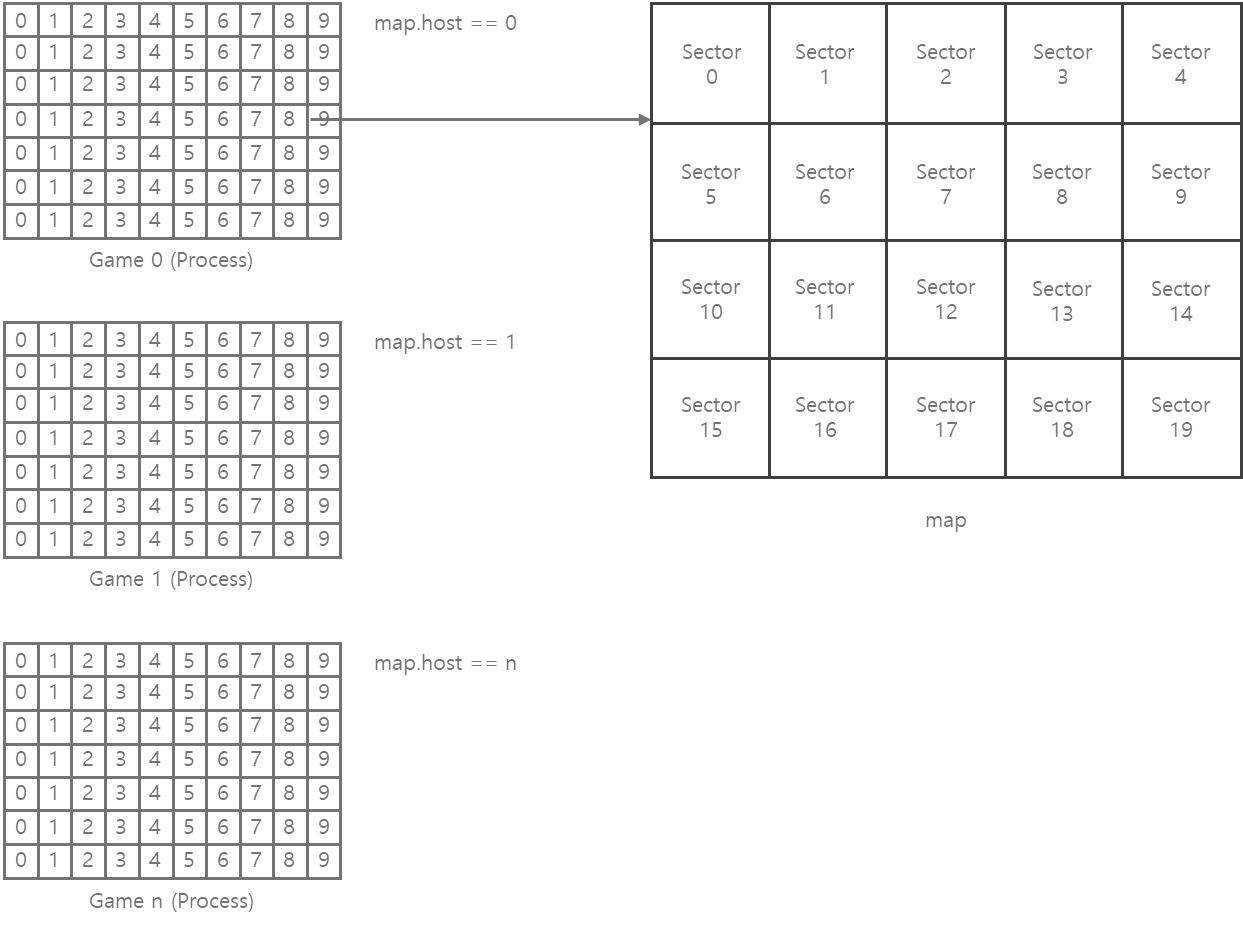
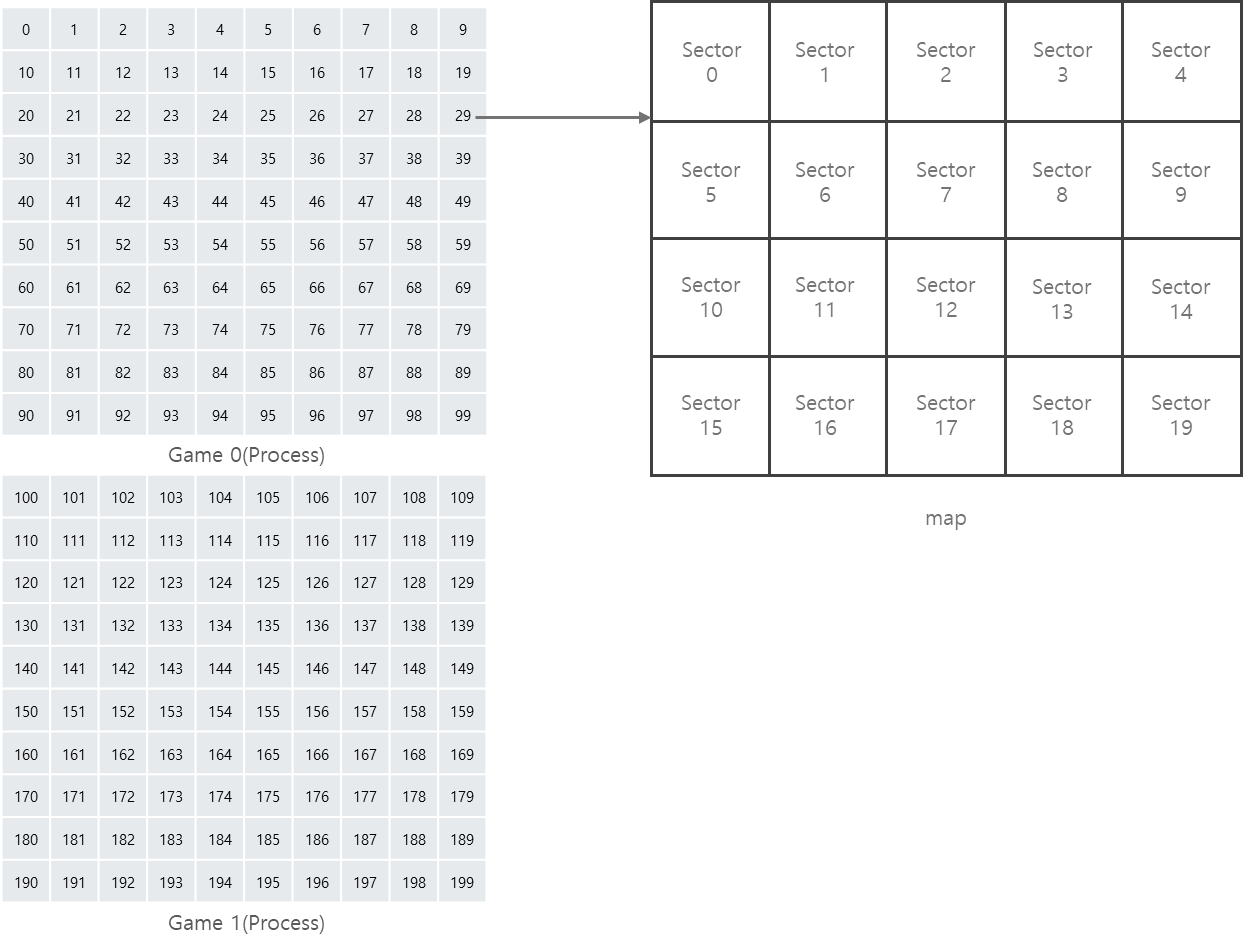
README 추가 설명

diff --git a/README.md b/README.md
@@ -64,7 +64,7 @@ If you need to build, look ```Dockerfile``` and ```CMakeLists.txt``` and ```buil
 ![screenshot](image/architecture.png)
 The gateway server is responsible for routing to one of several login servers, which create accounts, change passwords, and route to game servers. The server-to-server communication is via the internal server.
 
-An internal server is an HTTP server. It reads and writes DBs, notifies all servers (using RabbitMQ), inquires about the status of multiple servers, synchronizes, and so on.
+internal server is based on HTTP 2.0. It reads and writes DBs, notifies all servers (using RabbitMQ), inquires about the status of multiple servers, synchronizes, and so on.
 
 'write-back' is a single process that will carry out a redis caching strategy. When the internal server writes data to the DB, it saves it to Redis first immediately and stores the query to be passed to the actual DB in the Redis buffer. The 'write-back' process continues to query this buffer and applies the query to the DB when it can be done.
 
@@ -73,15 +73,21 @@ An internal server is an HTTP server. It reads and writes DBs, notifies all serv
 ![screenshot](image/map_group.png)
 Each game server manages some of the map groups. Unmanaged maps do not perform any operations, and when a character moves to an unmanaged map, it transfers through the internal server to the game server that manages that map.
 
+As shown in the picture above, there are several maps that are managed by a single game server. According to the picture, game servers with id of 0 only manage maps with map id from 0 to 99. This is for ease of description, and in reality, each map has an id of the game server that you need to connect to.
+
+In addition, one map consists of several sectors. It is used to efficiently search for surrounding objects from one object. To the right of the picture above, there are sectors from 0 to 19. Assuming that the character is in sector 7, the game server will search for objects in sectors [1, 2, 3, 6, 7, 8, 11, 12, 13].
+
 ### Thread
 ![screenshot](image/thread.png)
-The I/O thread receives data from the client and then enqueues the task in the task queue of the thread that the socket will work on.
+After the I/O thread reads the data, it passes the data to one of several logic threads. The game server determines the thread as follows:
 
-The game server modulates the id of the map in which the character stands to determine the thread to be worked, and the gateway server or login server modulates the fd of the socket to determine.
+```C++
+thread_id = character.map.id % logic_thread.length+1
+```
 
-The number of I/O threads and logic threads can be determined by the config file.
+For example, if the character who received the data from the I/O thread is currently on the map 40, thread 0 would call the handler. If it was on the map 62, it would be called in thread 2. This makes it possible to avoid considering the concurrency between objects on the same map. However, it makes it difficult to interact between characters located on different maps.
 
-
+The gateway server or login server determines by modulating the fd in the socket. The number of I/O threads and logical threads can also be determined by the configuration file.
 
 ## Contact
  - [youtube](https://www.youtube.com/channel/UCPcH5qX7aLTFs3mgh32_FVQ?view_as=subscriber)
